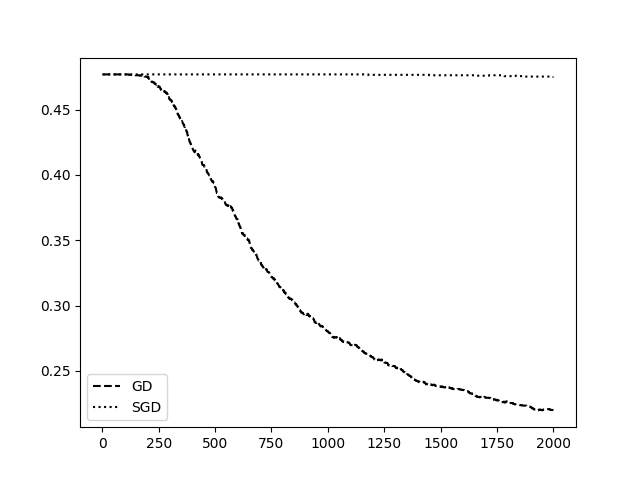
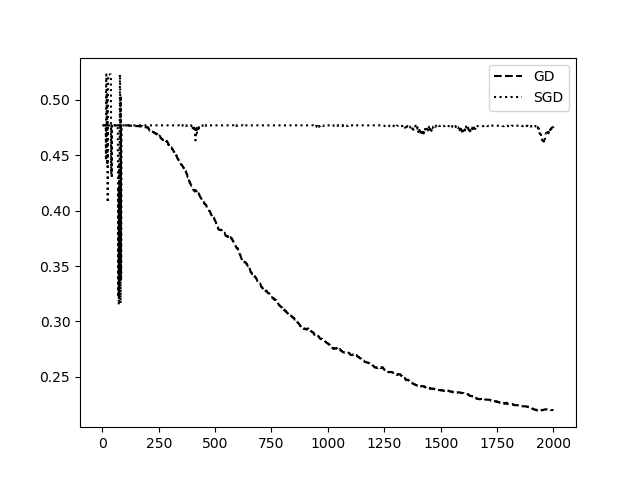
chart

diff --git a/HW3/logistic.py b/HW3/logistic.py
@@ -13,19 +13,20 @@ def cal_gradient(w,x,y):
     gradient_all = -sigmoid(-s).reshape(-1,1)*y.reshape(-1,1)*x
     gradient_avr = np.average(gradient_all,axis=0)
     return gradient_avr
-def E_in(w,x,y):
+def err_log(w,x,y):
     s = np.dot(w,x.T)*y
-    error = -np.log(sigmoid(s))
-    error_avr = np.average(error,axis=0)
+    err = -np.log(sigmoid(s))
+    error_avr = np.average(err,axis=0)
     return error_avr
 def update_W(w,ita,gradient):
     return w- ita*gradient
-def Eout(w,x,y):
+def err0_1(w,x,y):
     s = np.dot(w,x.T)
     
     scores = sigmoid(s)
     predicts = scores>=0.5
     predicts = predicts *2 -1
+    #print(predicts!=y)
     Eout = sum(predicts!=y)
     return (Eout *1.0)/predicts.shape[0]
 
@@ -55,20 +56,20 @@ for j in range(len(is_SGD)):
 
         if is_SGD[j]:
             ## Q 20
-            x_n = x[i%x.shape[0]]
-            y_n = y[i%y.shape[0]]
+            x_n = np.array(x[i%x.shape[0]])
+            y_n = np.array(y[i%y.shape[0]])
         else :
             ## Q 19
             x_n = x
             y_n = y
         steps += [i+1]
-        E_in_history += [E_in(w,x,y)]
-        gradient = cal_gradient(w,x,y)
+        E_in_history += [err0_1(w,x,y)]
+        gradient = cal_gradient(w,x_n,y_n)
         w = update_W(w,lr[j],gradient)
-        E_out_history +=[Eout(w,test_x,test_y)]
+        E_out_history +=[err0_1(w,test_x,test_y)]
     
-    E_out = Eout(w,test_x,test_y)
-    
+    E_out = err0_1(w,test_x,test_y)
+    print("=====E_out ( 0/1 err )=====")
     print(E_out)
 plt.figure("Question 7")
 plots = plt.plot(steps[:step],E_in_history[:step],sign[0],steps[:step],E_in_history[step:],sign[1])
